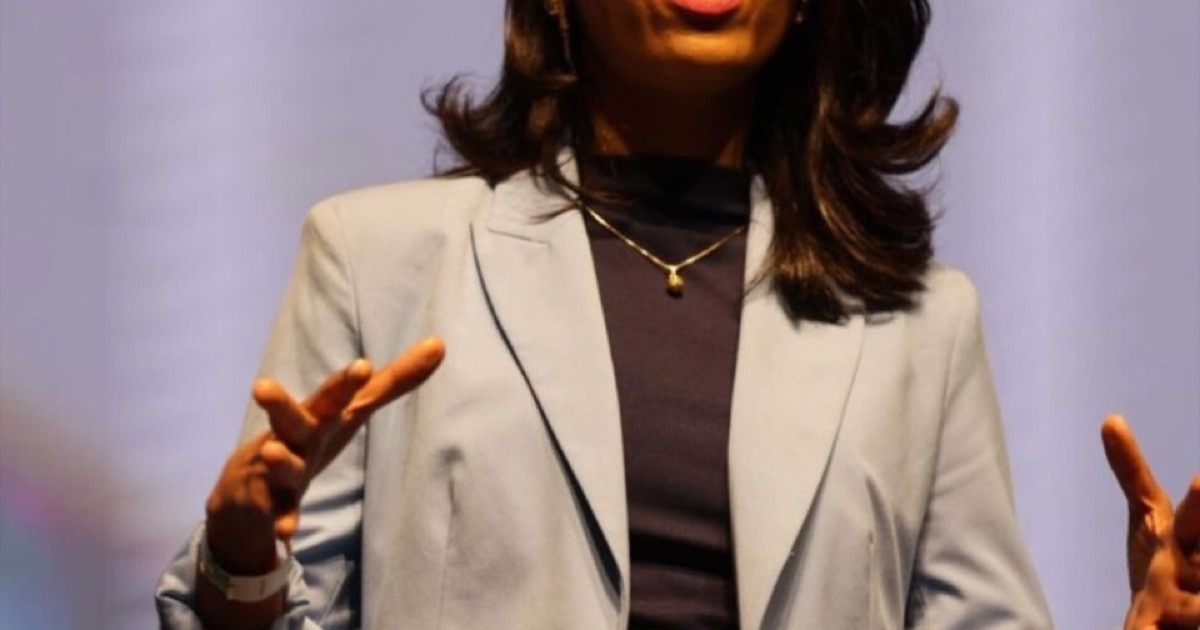
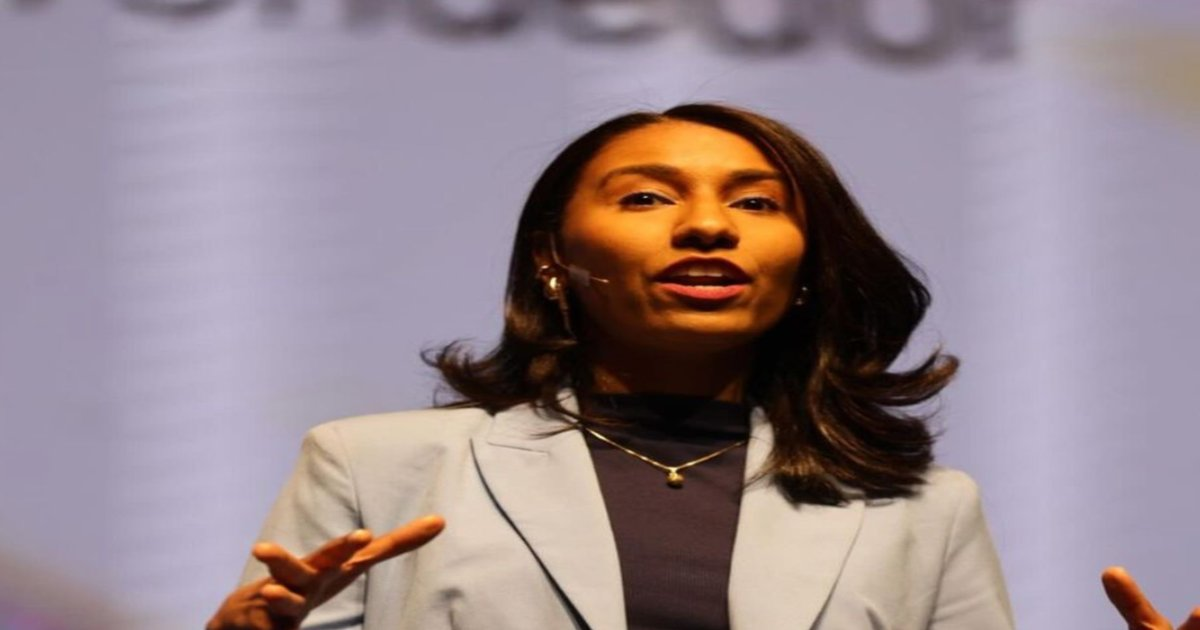
Fix OG image (show face), full SEO optimization
- Recropped og-image to show Anabel's face (top 63% of portrait)
- Added canonical URL, robots, keywords, author meta tags
- Added og:image dimensions, og:locale, og:site_name
- Improved title and descriptions for SEO

diff --git a/index.html b/index.html
@@ -3,16 +3,26 @@
 <head>
 <meta charset="UTF-8">
 <meta name="viewport" content="width=device-width, initial-scale=1.0">
-<title>Anabel Mercedes — Construí la vida que quería</title>
-<meta name="description" content="Emprendedora. Consultora Immunotec. Viajera. Desde República Dominicana, en mis propios términos.">
-<meta property="og:title" content="Anabel Mercedes — Construí la vida que quería">
-<meta property="og:description" content="Genera un ingreso real y significativo sin renunciar a tu carrera, tu tiempo ni tu estilo de vida.">
+<title>Anabel Mercedes — Genera ingresos reales sin renunciar a tu vida</title>
+<meta name="description" content="Anabel Mercedes es Diamante Ejecutivo Immunotec con más de 5,000 personas en su equipo. Descubre cómo genera ingresos reales sin perseguir a nadie, desde República Dominicana.">
+<meta name="keywords" content="Anabel Mercedes, Immunotec, network marketing, ingresos desde casa, emprendedora, República Dominicana, Diamante Ejecutivo, oportunidad de negocio">
+<meta name="author" content="Anabel Mercedes">
+<meta name="robots" content="index, follow">
+<link rel="canonical" href="https://anabelmercedes.com/">
+<!-- Open Graph -->
+<meta property="og:title" content="Anabel Mercedes — Genera ingresos reales sin renunciar a tu vida">
+<meta property="og:description" content="De la más tímida del salón a liderar más de 5,000 personas. Conoce cómo funciona.">
 <meta property="og:image" content="https://anabelmercedes.com/og-image.jpg">
+<meta property="og:image:width" content="1200">
+<meta property="og:image:height" content="630">
 <meta property="og:url" content="https://anabelmercedes.com">
 <meta property="og:type" content="website">
+<meta property="og:locale" content="es_DO">
+<meta property="og:site_name" content="Anabel Mercedes">
+<!-- Twitter -->
 <meta name="twitter:card" content="summary_large_image">
-<meta name="twitter:title" content="Anabel Mercedes — Construí la vida que quería">
-<meta name="twitter:description" content="Genera un ingreso real y significativo sin renunciar a tu carrera, tu tiempo ni tu estilo de vida.">
+<meta name="twitter:title" content="Anabel Mercedes — Genera ingresos reales sin renunciar a tu vida">
+<meta name="twitter:description" content="De la más tímida del salón a liderar más de 5,000 personas. Conoce cómo funciona.">
 <meta name="twitter:image" content="https://anabelmercedes.com/og-image.jpg">
 <link rel="preconnect" href="https://fonts.googleapis.com">
 <link rel="preconnect" href="https://fonts.gstatic.com" crossorigin>
